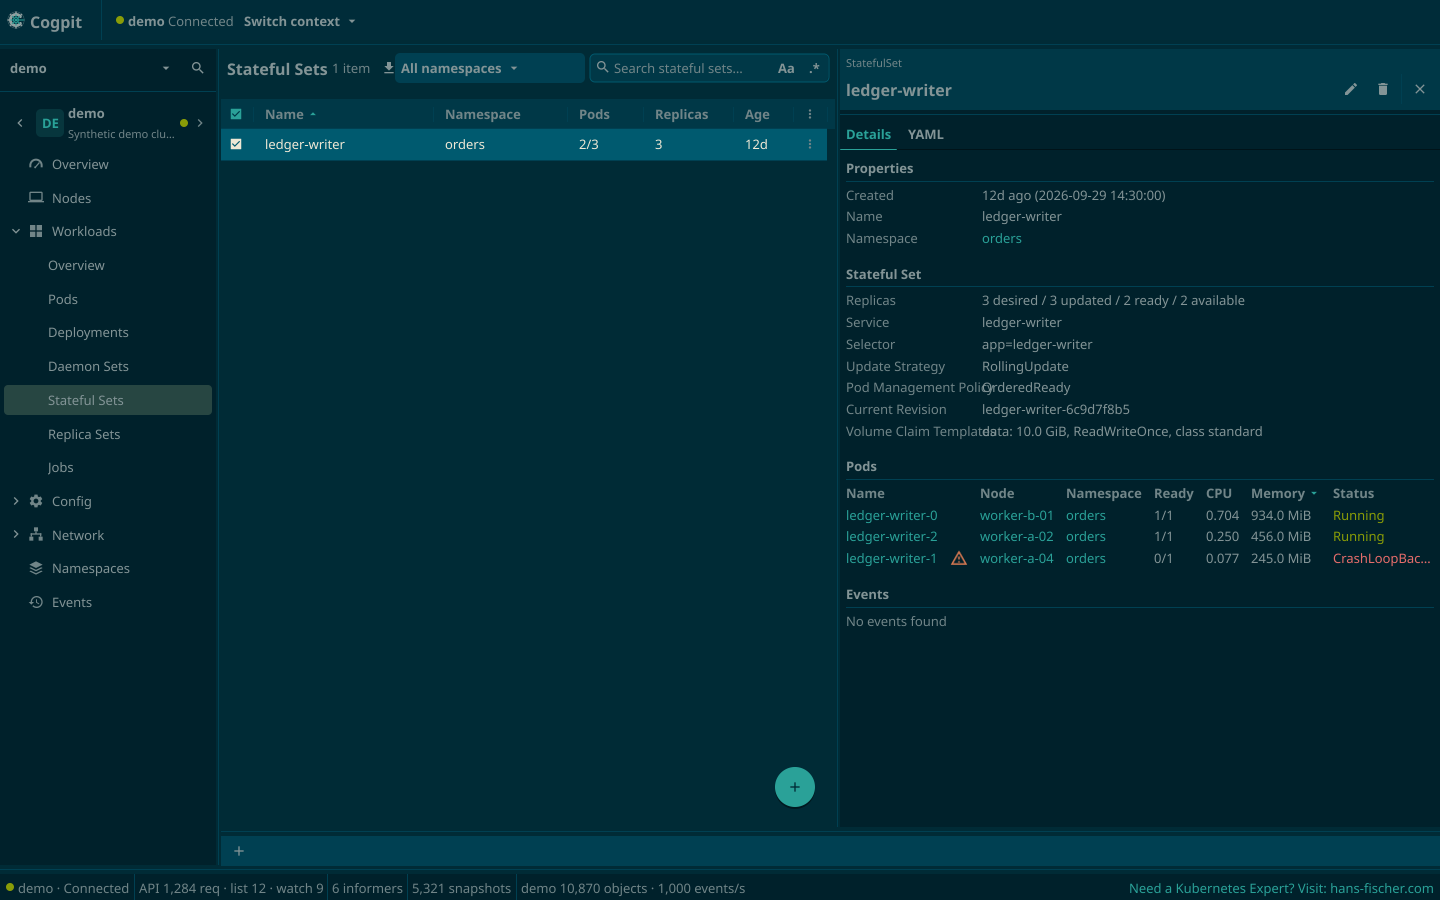
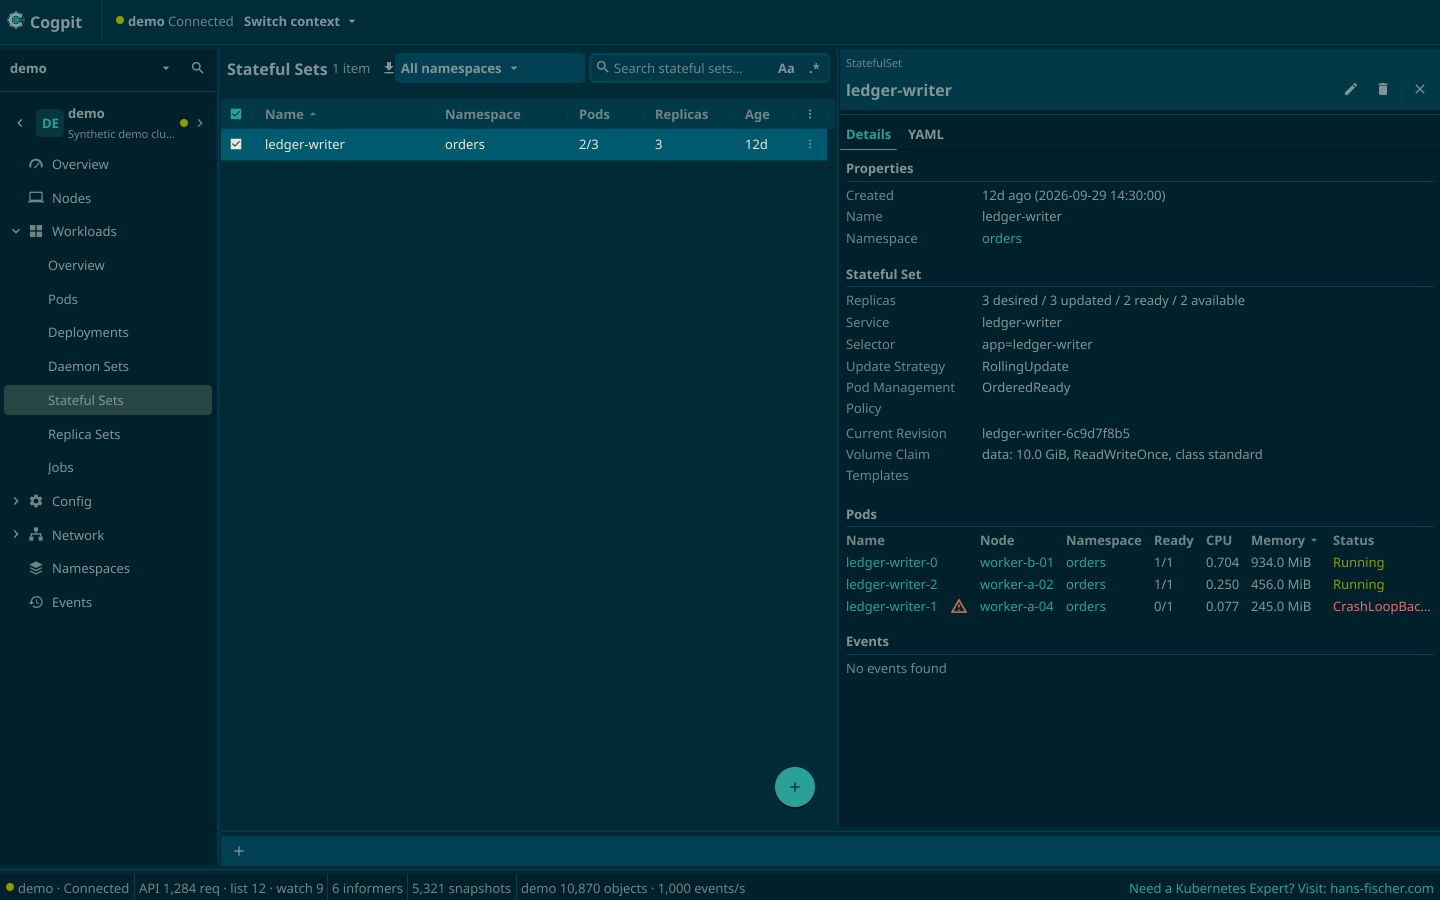
fix(ui): a drawer name wider than its column wraps within it instead of running into its value
The Stateful Set drawer's "Pod Management Policy" and "Volume Claim Templates"
ran under their values; a name wider than the 128-pixel name column is now a
paragraph wrapped at its spaces within the column, and a name that fits stays
one line, so other drawers look as before (TestDrawerLongNamesWrapInTheirColumn;
statefulset_pods_drawer_*.png made again).

Changed region(s): [[0.5938, 0.4356, 1.0, 0.7467], [0.6562, 0.4044, 0.6875, 0.4356]]

diff --git a/internal/ui/fyneui/drawerlabels_test.go b/internal/ui/fyneui/drawerlabels_test.go
@@ -1,0 +1,52 @@
+package fyneui
+
+import (
+	"testing"
+
+	"fyne.io/fyne/v2"
+)
+
+// A name wider than the details' name column wraps within it instead of running into its value
+// (FIXUP 2026-10-14, from WPODS's report: the Stateful Set drawer's "Pod Management Policy" and
+// "Volume Claim Templates" ran under their values); a name that fits stays one line, as before.
+// PNGs: statefulset_pods_drawer_*.png.
+func TestDrawerLongNamesWrapInTheirColumn(t *testing.T) {
+	f, _ := workloadPodsFake(t, true, nil)
+	sh, w, q := newTestShell(t, f, Options{})
+	q.until(t, "the drawer", func() bool { return sh.drawer.last != nil && len(drawerHeaders(sh)) > 0 })
+	settle(w)
+	nameW := sh.app.Settings().Theme().Size(sizeDrawerLabel)
+	wrapped := map[string]bool{}
+	pairs := 0
+	for _, c := range findAll[*fyne.Container](sh.drawer.details) {
+		if _, ok := c.Layout.(kvLayout); !ok {
+			continue
+		}
+		for i := 0; i+1 < len(c.Objects); i += 2 {
+			name, value := c.Objects[i], c.Objects[i+1]
+			pairs++
+			text := ""
+			switch x := name.(type) {
+			case *paragraph:
+				text = x.text
+				wrapped[text] = true
+			case *selLine:
+				text = x.line.text
+			}
+			if right := name.Position().X + name.MinSize().Width; name.MinSize().Width > nameW || right > value.Position().X {
+				t.Errorf("name %q is %.0f wide, ends at %.0f; its column is %.0f, its value starts at %.0f", text, name.MinSize().Width, right, nameW, value.Position().X)
+			}
+		}
+	}
+	if pairs == 0 {
+		t.Fatal("no name and value pairs in the drawer")
+	}
+	for _, long := range []string{"Pod Management Policy", "Volume Claim Templates"} {
+		if !wrapped[long] {
+			t.Errorf("%q is not wrapped in its column (wrapped: %v)", long, wrapped)
+		}
+	}
+	if wrapped["Replicas"] || wrapped["Current Revision"] {
+		t.Errorf("a name that fits is wrapped: %v", wrapped)
+	}
+}

diff --git a/internal/ui/fyneui/drawer.go b/internal/ui/fyneui/drawer.go
@@ -409,8 +409,7 @@ func (d *drawer) buildDetails(m *engine.DetailModel) []fyne.CanvasObject {
 		if len(sec.Items) > 0 {
 			grid := box(kvLayout{})
 			for _, it := range sec.Items {
-				name := d.line(it.Name, colorMuted, theme.SizeNameText, fyne.TextStyle{}, false, "")
-				grid.Objects = append(grid.Objects, name, d.itemValue(m.Ref, sec, it))
+				grid.Objects = append(grid.Objects, d.itemName(it.Name), d.itemValue(m.Ref, sec, it))
 			}
 			out = append(out, grid)
 		}
@@ -424,6 +423,18 @@ func (d *drawer) buildDetails(m *engine.DetailModel) []fyne.CanvasObject {
 	out = append(out, newSpace(theme.SizeNameInnerPadding),
 		d.line("Events", theme.ColorNameForeground, theme.SizeNameText, fyne.TextStyle{Bold: true}, false, ""), newDivider(false))
 	return append(out, d.buildEvents(m.Events)...)
+}
+
+// itemName is an item's name in the details' name column (kvLayout): one line, or, for a name
+// wider than the column ("Pod Management Policy", "Volume Claim Templates" of a Stateful Set),
+// wrapped at its spaces onto lines within it, so that it never runs into its value. Before
+// (2026-10-14) such a name ran under its value; a name that fits is drawn as before.
+func (d *drawer) itemName(text string) fyne.CanvasObject {
+	th := d.sh.app.Settings().Theme()
+	if w := th.Size(sizeDrawerLabel); fyne.MeasureText(text, th.Size(theme.SizeNameText), fyne.TextStyle{}).Width > w {
+		return newParagraph(text, colorMuted, w)
+	}
+	return d.line(text, colorMuted, theme.SizeNameText, fyne.TextStyle{}, false, "")
 }
 
 // drawerSections are the GUI's own renderings of drawer sections, by kind and section title: a

diff --git a/internal/ui/fyneui/drawer_test.go b/internal/ui/fyneui/drawer_test.go
@@ -30,6 +30,8 @@ func drawerTexts(sh *shell) []string {
 		switch x := o.(type) {
 		case *textLine:
 			out = append(out, x.text)
+		case *paragraph: // a name wider than its column, wrapped (drawer.go itemName)
+			out = append(out, x.text)
 		case *tableSortHeader: // a sortable table's column title (drawertable_sort.go)
 			out = append(out, x.title)
 		}

diff --git a/docs/parity/ui-parity.md b/docs/parity/ui-parity.md
@@ -1,6 +1,6 @@
 # UI parity: layout, navigation, tables, dock and feel
 
-> **Last reviewed:** 2026-10-12 · **Last updated:** 2026-10-14 · **Change:** minor (Dock: a context that leaves Cogpit takes its dock tabs, a node shell's pod deleted, an editor's unsaved text kept as a draft, no count moves; Layout › Welcome page: no context picker by itself at start (D-42), no count moves; Layout › Tab bar: the tabs kept across a restart (D-41), shown without connecting, the tabs of a vanished kubeconfig file closing with a notice; Tables › Sort by a column header: a workload drawer's Pods table sorts as a node's (D-40), a sortable drawer table at most 500 rows, no count moves; Cluster sidebar: the Argo CD group (paid, G23) after Flux CD, inferred, no count moves; Cluster sidebar: the Flux section, its Dashboard and sub-groups as captured, left out without Flux, G23, no count moves; Dock › Pod shell, attach and node shell: the node shell too; Cluster settings › Node shell partial, the page as captured, 113 of 120 free rows; Editor › Dialogs instead of YAML: the Secret's too, eight of eight, no count moves; Tables › Sort by a column header: a node drawer's Pods table sorts too, owner, G12, no count moves; the charts' bytes in binary units with one decimal, D-32: the drawers' charts and the cluster Overview's Memory, no count moves; Preferences › Locale timezone, Logs › Show timestamps, Download logs and Jump to a time: every timestamp in the zone and the region's format, D-31, no count moves; Title bar: the window buttons centred in Cogpit's bar (owner); Tables › tooltip of a cut-off cell: the lists' copy icon now sits after the text and is absent from blacklisted columns (D-25), no count moves; Preferences › Helm repositories: Helm's repositories.yaml as the source built, the dialog read-only, D-29, G11; Tables › tooltip of a cut-off cell: the copy icon of the lists (beyond Lens, D-25) shortens the hovered cell's text, which then has the tooltip too, no count moves; Cluster menu: a removed cluster's tabs close, no count moves; Cluster menu: Disconnect follows a reconnect, no count moves; Help › Audit Log and Diagnostics named, the welcome page not over the dock; Editor and create resource: the Create resource tab's save and search buttons, the diff view's Revert to Original with an undo, the Edit tab keeps drafts of unsaved text, G9, no count moves; Editor and create resource: the diff view's Revert to Original with an undo, the Edit tab keeps drafts of unsaved text, G9, no count moves; Editor and create resource: the Edit tab keeps drafts of unsaved text, G9, no count moves; Cluster settings, G3 and G13: Accessible namespaces from missing to partial, the page list with Namespaces; Preferences, G11: `HELM_DRIVER` partial, secret and configmap, sql missing with the reason; Preferences › kubectl partial, D-3; kubectl for terminals, D-3: the terminal row notes the check and the offer; Terminal and shells: copy and paste with the right mouse button partial (a preference, off by default), the Windows and Linux copy and paste keys updated, G8, the counts not redone; Tables › Search field with its "Aa" and ".*" toggles partial, G5, the counts not redone; Preferences, G13: HTTP proxy for non-cluster traffic partial, untrusted CAs not built with the reason; Cluster settings, G12 and G13: Proxy and Hide metrics from the UI partial; Cluster settings, G12 and G13: Hide metrics from the UI partial; the navigator's section level and scope, G5, G13: Navigator sections and Drill into a section or cluster from missing to partial, the Navigator header, Tab bar, Search clusters by name and Navigator keyboard rows updated, the counts not redone; the title bar, G5: its history arrows and context menu, Notifications in the title bar partial; column reorder by dragging partial, G5; row checkboxes and actions on a selection, G5, G7, G9: Tables › checkbox column partial, the actions menu row updated, the counts not redone; the welcome page, the Help and Window menus, Disconnect and Remove from Cogpit, G5, G13: the Welcome page, Window and Help › Welcome rows from missing to partial, the zoom and full screen row partial (full screen only), the Cluster menu row updated, the counts not redone; Logs, G8: the pod and container selectors, loading older lines and jumping to a time partial, timestamps carried by every stream; Logs, G8: the pod and container selectors and loading older lines partial, timestamps carried by every stream; Logs, G8: the pod and container selectors partial, timestamps carried by every stream; the tab bar of cluster views, G5, G13: its Layout row, the navigator keyboard's ⇧↵ and five shortcut rows partial, the counts not redone; Preferences and Cluster settings, G13: the two pages, their shortcuts, the application menu's Preferences, cluster identity, the theme, time zone, editor, tables and terminal preferences, the cluster's General and Terminal settings partial; the cluster Overview, G12: its four rows partial, 71 of 120 free rows; Cluster sidebar: Applications, the Device Resources group and the Vertical Pod Autoscalers' profile, G6; Cluster sidebar: the Device Resources group and the Vertical Pod Autoscalers' profile, G6; Cluster sidebar: the Device Resources group, G6; Helm › Charts, the Helm Install tab and the repositories dialog partial, G11; cluster settings › Metrics provider partial: the Prometheus setting, 56 of 120 free rows; drawer charts, G12 fourth slice: both providers together, a status line per provider, the variant held by the engine; the command palette, G13: its two free rows and five shortcut rows partial; the navigator, G5 and G13: its header row and its keyboard row partial) · **Target:** Lens Desktop 2026.10.51501
+> **Last reviewed:** 2026-10-12 · **Last updated:** 2026-10-14 · **Change:** minor (Detail drawer: a name wider than its column wraps, no count moves; Dock: a context that leaves Cogpit takes its dock tabs, a node shell's pod deleted, an editor's unsaved text kept as a draft, no count moves; Layout › Welcome page: no context picker by itself at start (D-42), no count moves; Layout › Tab bar: the tabs kept across a restart (D-41), shown without connecting, the tabs of a vanished kubeconfig file closing with a notice; Tables › Sort by a column header: a workload drawer's Pods table sorts as a node's (D-40), a sortable drawer table at most 500 rows, no count moves; Cluster sidebar: the Argo CD group (paid, G23) after Flux CD, inferred, no count moves; Cluster sidebar: the Flux section, its Dashboard and sub-groups as captured, left out without Flux, G23, no count moves; Dock › Pod shell, attach and node shell: the node shell too; Cluster settings › Node shell partial, the page as captured, 113 of 120 free rows; Editor › Dialogs instead of YAML: the Secret's too, eight of eight, no count moves; Tables › Sort by a column header: a node drawer's Pods table sorts too, owner, G12, no count moves; the charts' bytes in binary units with one decimal, D-32: the drawers' charts and the cluster Overview's Memory, no count moves; Preferences › Locale timezone, Logs › Show timestamps, Download logs and Jump to a time: every timestamp in the zone and the region's format, D-31, no count moves; Title bar: the window buttons centred in Cogpit's bar (owner); Tables › tooltip of a cut-off cell: the lists' copy icon now sits after the text and is absent from blacklisted columns (D-25), no count moves; Preferences › Helm repositories: Helm's repositories.yaml as the source built, the dialog read-only, D-29, G11; Tables › tooltip of a cut-off cell: the copy icon of the lists (beyond Lens, D-25) shortens the hovered cell's text, which then has the tooltip too, no count moves; Cluster menu: a removed cluster's tabs close, no count moves; Cluster menu: Disconnect follows a reconnect, no count moves; Help › Audit Log and Diagnostics named, the welcome page not over the dock; Editor and create resource: the Create resource tab's save and search buttons, the diff view's Revert to Original with an undo, the Edit tab keeps drafts of unsaved text, G9, no count moves; Editor and create resource: the diff view's Revert to Original with an undo, the Edit tab keeps drafts of unsaved text, G9, no count moves; Editor and create resource: the Edit tab keeps drafts of unsaved text, G9, no count moves; Cluster settings, G3 and G13: Accessible namespaces from missing to partial, the page list with Namespaces; Preferences, G11: `HELM_DRIVER` partial, secret and configmap, sql missing with the reason; Preferences › kubectl partial, D-3; kubectl for terminals, D-3: the terminal row notes the check and the offer; Terminal and shells: copy and paste with the right mouse button partial (a preference, off by default), the Windows and Linux copy and paste keys updated, G8, the counts not redone; Tables › Search field with its "Aa" and ".*" toggles partial, G5, the counts not redone; Preferences, G13: HTTP proxy for non-cluster traffic partial, untrusted CAs not built with the reason; Cluster settings, G12 and G13: Proxy and Hide metrics from the UI partial; Cluster settings, G12 and G13: Hide metrics from the UI partial; the navigator's section level and scope, G5, G13: Navigator sections and Drill into a section or cluster from missing to partial, the Navigator header, Tab bar, Search clusters by name and Navigator keyboard rows updated, the counts not redone; the title bar, G5: its history arrows and context menu, Notifications in the title bar partial; column reorder by dragging partial, G5; row checkboxes and actions on a selection, G5, G7, G9: Tables › checkbox column partial, the actions menu row updated, the counts not redone; the welcome page, the Help and Window menus, Disconnect and Remove from Cogpit, G5, G13: the Welcome page, Window and Help › Welcome rows from missing to partial, the zoom and full screen row partial (full screen only), the Cluster menu row updated, the counts not redone; Logs, G8: the pod and container selectors, loading older lines and jumping to a time partial, timestamps carried by every stream; Logs, G8: the pod and container selectors and loading older lines partial, timestamps carried by every stream; Logs, G8: the pod and container selectors partial, timestamps carried by every stream; the tab bar of cluster views, G5, G13: its Layout row, the navigator keyboard's ⇧↵ and five shortcut rows partial, the counts not redone; Preferences and Cluster settings, G13: the two pages, their shortcuts, the application menu's Preferences, cluster identity, the theme, time zone, editor, tables and terminal preferences, the cluster's General and Terminal settings partial; the cluster Overview, G12: its four rows partial, 71 of 120 free rows; Cluster sidebar: Applications, the Device Resources group and the Vertical Pod Autoscalers' profile, G6; Cluster sidebar: the Device Resources group and the Vertical Pod Autoscalers' profile, G6; Cluster sidebar: the Device Resources group, G6; Helm › Charts, the Helm Install tab and the repositories dialog partial, G11; cluster settings › Metrics provider partial: the Prometheus setting, 56 of 120 free rows; drawer charts, G12 fourth slice: both providers together, a status line per provider, the variant held by the engine; the command palette, G13: its two free rows and five shortcut rows partial; the navigator, G5 and G13: its header row and its keyboard row partial) · **Target:** Lens Desktop 2026.10.51501
 
 How Cogpit's interface compares with Lens Desktop 2026.10.51501: the window layout, clusters and
 hotbar, the cluster sidebar, list tables, the detail drawer, the bottom dock with its editor, log
@@ -187,7 +187,7 @@ Every list view is one table ([resource views](resource-parity.md)).
 |---|---|---|---|
 | Opens from the right when a row is selected, beside the narrowed table; titled "<Kind>: <name>" (capture, 2026-10-11) | free | partial: the drawer's width is the user's and stays when its content changes (2026-10-12, owner requirement; see Layout) | `TestRowTapDispatchesSelect`; `ui.select` opens the drawer |
 | Actions at the top: Copy, Edit, Delete and the kind's own actions; captured as icons in the drawer's title bar: for a pod seven icons ending with Edit and Delete, for a node Shell, Cordon (a pause icon; Uncordon, a play icon, on a cordoned node), Drain, Edit, Delete (which pod icon is which action: inferred, tooltips needed) | free | partial: Copy (`object.copyName`, 2026-10-11) is the first icon of every drawer and puts the object's name on the clipboard ("Copies the resource name", documented; the toast saying so is Cogpit's); the node capture shows no Copy among its five icons, so where Lens puts it is inferred; the icons are Fyne's, chosen per command ([`cmdicons.go`](../../internal/ui/fyneui/cmdicons.go)), the pause and play for Cordon and Uncordon as captured | `TestDrawerToolbarFromRegistry`, `TestDrawerActionsDisabledWithReason`: the row menu's actions as icons in the title bar, a tooltip names each and says why a disabled one cannot run; [PNG](../../internal/ui/fyneui/testdata/node_drawer_dark.png); Copy: `TestCopyPutsTheNameOnTheClipboard`, `TestCopyIsFirstInEveryDrawer`, `TestDrawerOnlyActionsStayOutOfRowMenus`, [PNG](../../internal/ui/fyneui/testdata/drawer_copy_dark.png) |
-| Drawer sections in order: Metrics, Properties, the kind's own sections, Events ("No events found" when none) (capture of a pod and a node) | free | partial: the Metrics section is first for a pod and a node since 2026-10-12 (see Cluster overview and charts); the YAML stays a second tab (Cogpit's own) | `TestDrawerSectionsAsLens`, `TestDrawerNoEventsFound`, `TestBuildDetailPodAsLens`: Properties first (metadata and the kind's state merged, no UID), the kind's sections with group headings (Init Containers, Containers), Events last ([`drawer.go`](../../internal/ui/fyneui/drawer.go), [`engine/drawer.go`](../../internal/engine/drawer.go)); [PNG](../../internal/ui/fyneui/testdata/pod_drawer_dark.png) |
+| Drawer sections in order: Metrics, Properties, the kind's own sections, Events ("No events found" when none) (capture of a pod and a node) | free | partial: the Metrics section is first for a pod and a node since 2026-10-12 (see Cluster overview and charts); the YAML stays a second tab (Cogpit's own) | `TestDrawerSectionsAsLens`, `TestDrawerNoEventsFound`, `TestBuildDetailPodAsLens`: Properties first (metadata and the kind's state merged, no UID), the kind's sections with group headings (Init Containers, Containers), Events last ([`drawer.go`](../../internal/ui/fyneui/drawer.go), [`engine/drawer.go`](../../internal/engine/drawer.go)); [PNG](../../internal/ui/fyneui/testdata/pod_drawer_dark.png); a name wider than the name column wraps within it since 2026-10-14, where "Pod Management Policy" and "Volume Claim Templates" ran into their values (`TestDrawerLongNamesWrapInTheirColumn`, PNGs [dark](../../internal/ui/fyneui/testdata/statefulset_pods_drawer_dark.png), [light](../../internal/ui/fyneui/testdata/statefulset_pods_drawer_light.png)) |
 | Long values fold: Labels, Annotations, Tolerations, environment variables, mounts and volumes show a count ("6 Labels") and expand on click; lists of short values show as chips (pod IPs, conditions, images) (capture) | free | partial: images are not chips; an unfolded list shows chips (labels, volumes) or one line per entry (annotations, tolerations, environment, mounts), which is inferred | `TestDrawerSectionsAsLens` folds and unfolds the labels; pod IPs, conditions and secrets are chips (`TestPodDetailSections`) |
 | Object references in the drawer are links (namespace, controller, node, service account, secrets); container ports have a "Forward…" button (capture) | free | done (2026-10-11): Forward… beside each TCP container port, right after the port's link ([Port forwarding](#port-forwarding)) | `TestDrawerSectionsAsLens` (the node link navigates), `TestPropertiesSection`, `TestPodDetailSections`: namespace, controller (built-in kinds), node, service account, secrets and a volume's ConfigMap, Secret or claim link to their objects; the service account link leads to the Service Accounts view (2026-10-11, `TestPodServiceAccountLinkLive`); a binding's role and its ServiceAccount subjects, in a table, link to them (`TestClusterRoleBindingDrawerLinks`; table cells link, `TestDrawerTableLinks`); a claim's class, volume and pods, a volume's class and claim, an endpoint slice's Service, and the cells of drawer tables (a node's pods and their namespaces, a Service's endpoint slices, an endpoint's node and target) link to theirs, a table's warning column shows the icon with its reason as the tooltip (`TestPersistentVolumeClaimPods`, `TestDrawerCellTable`, `TestNodeDrawerPodsTable`, `TestEndpointSliceDrawer`; [PNG](../../internal/ui/fyneui/testdata/node_pods_drawer_dark.png)); Forward… beside each TCP container port (`TestForwardDialogFromPodDrawer`, `TestDrawerItemLinkAndRowMenuDialog`, [PNG](../../internal/ui/fyneui/testdata/pod_drawer_ports_dark.png)) |
 
@@ -362,6 +362,7 @@ order, and each page shows its settings under upper-case headings with a help li
 
 | Date | Change | Summary |
 |---|---|---|
+| 2026-10-14 | minor | Detail drawer: a name wider than the name column wraps within it (the Stateful Set's "Pod Management Policy" and "Volume Claim Templates"); stale renders made again (the node shell's toolbar icon, Cluster settings › Node Shell); no count moves |
 | 2026-10-14 | minor | Dock (G5, G13, the night build's seams): a removed source's or a gone file's context closes its dock tabs with its cluster tabs, counted in the same notice; a node shell's pod is deleted, an editor's unsaved text kept as a draft; no count moves |
 | 2026-10-13 | minor | Layout › Welcome page: the context picker no longer opens by itself at start, the window starts on the page under the restored tabs (D-42); no count moves |
 | 2026-10-13 | minor | Layout › Tab bar: the tabs kept across a restart and shown at start without connecting anything (D-41), a removed or vanished kubeconfig file's tabs closing with a notice; Tables › Show and hide columns, Reorder columns: kept across restarts per view key (D-41), widths not kept; no count moves |
